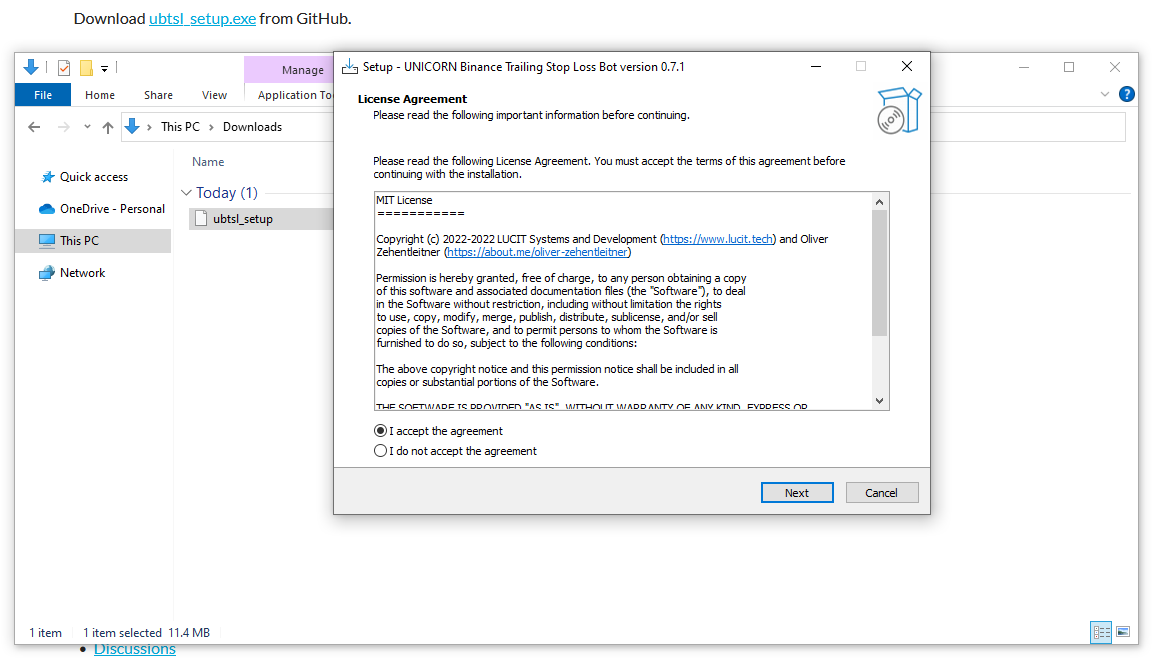
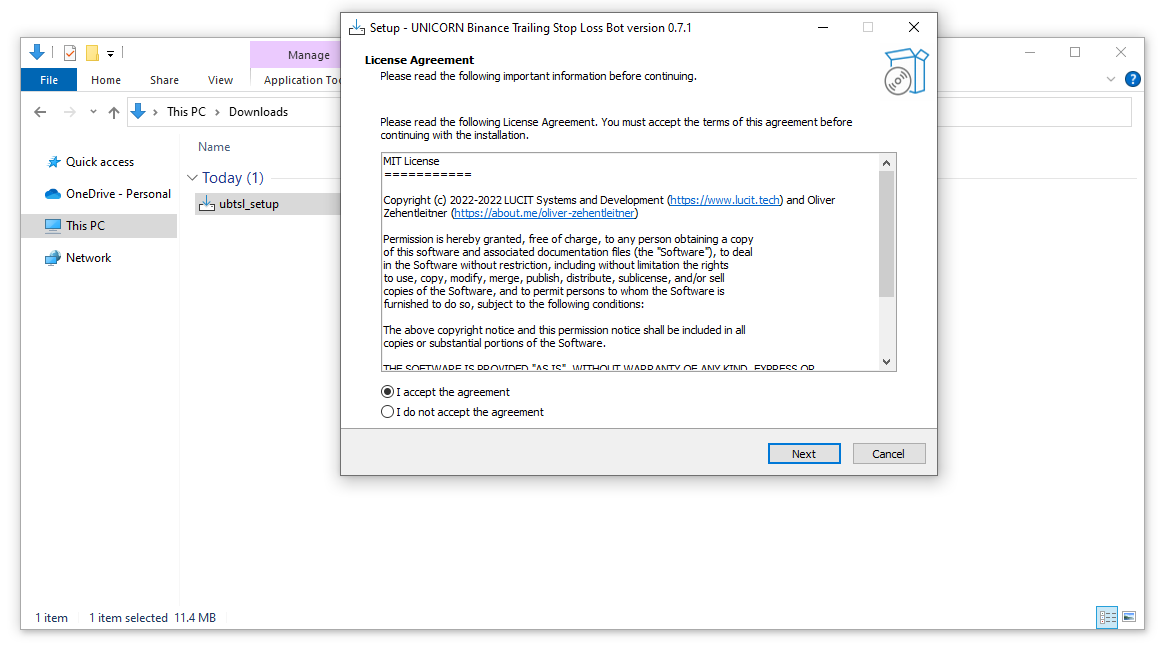
install win

diff --git a/bot/README.md b/bot/README.md
@@ -65,7 +65,7 @@ from GitHub.
 3. Click on `More info`. ![Screenshot_0](https://www.lucit.tech/files/images/dev/ubtsl/bot/windows/step_0.png)
 4. Click on `Run anyway`. ![Screenshot_1](https://www.lucit.tech/files/images/dev/ubtsl/bot/windows/step_1.png)
 5. Click on `Yes`. ![Screenshot_2](https://www.lucit.tech/files/images/dev/ubtsl/bot/windows/step_2.png)
-6. Accept the license: ![Screenshot_3](https://www.lucit.tech/files/images/dev/ubtsl/bot/windows/step_3.png)
+6. Accept the license. ![Screenshot_3](https://www.lucit.tech/files/images/dev/ubtsl/bot/windows/step_3a.png)
 7. Click `Next` 3 times, then click `Install`.
 8. Read the following [post installation instructions](https://www.lucit.tech/ubtsl-cli.html#installation).
 
